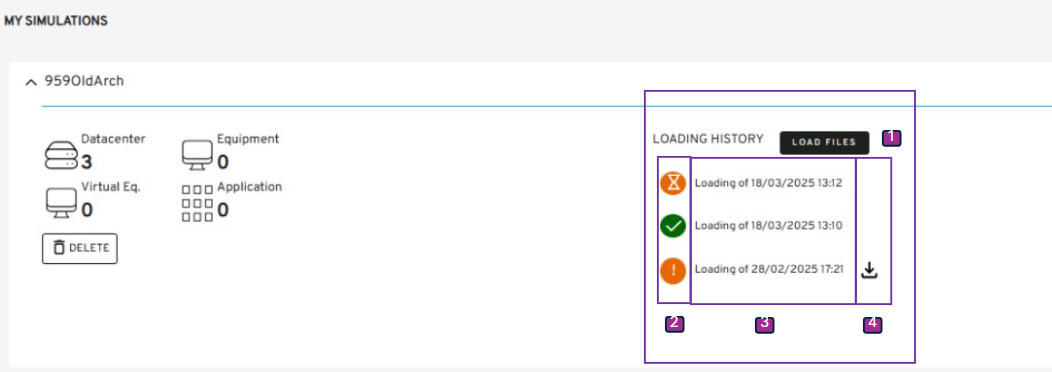
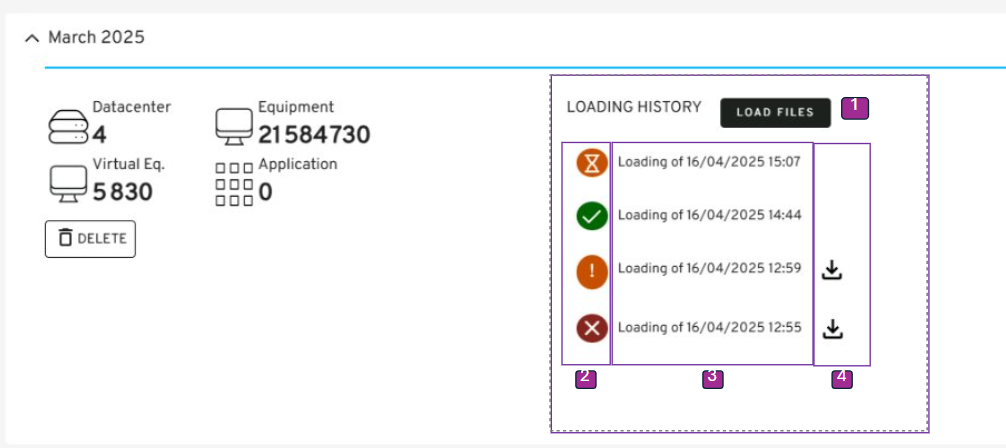
fix(1078): update documentation

diff --git a/services/documentation/content/2-functional-documentation/use_cases/uc_inventory/uc3_load_files.md b/services/documentation/content/2-functional-documentation/use_cases/uc_inventory/uc3_load_files.md
@@ -44,13 +44,14 @@ The connected user must have the write access for that module on the selected or
 {{< mermaid align="center">}}
 
 graph TD;
-Step1[Loading files] --> |Click on 'UPLOAD' button|Step2[Checking Files] --> Decision1{Errors in the headers ?}
-Decision1 --> |Yes|Step3[Display Error: 'Failed headers']
-Decision1 --> |No|Step4[Display Pending:<br> 'To start process'] --> Decision2{Any task in progress ?}
+Step1[Loading files] --> |Click on 'UPLOAD' button|Step2[Checking Files] --> Step4[Display Pending:<br> 'To start process'] --> Decision2{Any task in progress ?}
 Decision2 --> |Yes|Step4
-Decision2 --> |No|Step5[Display Progress:<br> 'In progress'] --> Decision3{Any validation errors ?}
-Decision3 --> |Yes|Step8[Display Warning:<br> 'Completed with errors']
-Decision3 --> |No|Step9[Display Validated:<br>'Completed']
+Decision2 --> |No|Step5[Display Progress:<br> 'In progress'] --> Decision3{Any mandatory header missing?}
+Decision3 --> |Yes|Step6[Display Task as failed with a download button to display error details:<br> 'Failed']
+Decision3 --> |No|Decision4{Any validation errors ?}
+Decision4{Any validation errors ?}
+Decision4 --> |Yes|Step8[Display Warning:<br> 'Completed with errors', with a download button]
+Decision4 --> |No|Step9[Display Validated:<br>'Completed']
 
 {{</ mermaid >}}
 
@@ -64,14 +65,14 @@ Decision3 --> |No|Step9[Display Validated:<br>'Completed']
 
 #### Loading History
 
-| Reference | Group           | Elements          | Sub-Elements | Type   | Description                                                                                                                                                                                                                                                                               |
-| --------- | --------------- | ----------------- | ------------ | ------ | ----------------------------------------------------------------------------------------------------------------------------------------------------------------------------------------------------------------------------------------------------------------------------------------- |
-|           | Loading History |                   |              | button | Access inventory footprint for the application<br><br><li><u>_initialization rules_</u>: Details of the behaviour is described in [1.2. Create or update an inventory (IS version or simulation)](uc2_create_inventory.md).                                                               |
-| 1         |                 | Load files        |              | list   | <li><u>_initialization rules_</u>: The list is ordered by try date desc                                                                                                                                                                                                                   |
-|           |                 | Loading files try |              | label  |                                                                                                                                                                                                                                                                                           |
-| 2         |                 |                   | Status icon  | label  | <li><u>_initialization rules_</u>: 5 existing types: Pending (If any other inventory loading or estimation task is in progress), In Progress (Loading in progress), Error (Loading could not be performed), Completed with errors (Loading is completed with errors) and Completed (Loading is completed).                                                                                                                                                                                          |
-| 3         |                 |                   | Try dates    | label  |                                                                                                                                                                                                                                                                                           |
-| 4         |                 |                   | Download     | button | <li><u>_initialization rules_</u>: The button is displayed in case of "Completed with errors" which means some items could not be loaded on the inventory. That trigger the download of a file containing the items in error. Items can be then corrected in the file and uploaded later. |
+| Reference | Group           | Elements          | Sub-Elements | Type   | Description                                                                                                                                                                                                                                                                                                                                                                                                         |
+| --------- | --------------- | ----------------- | ------------ | ------ | ------------------------------------------------------------------------------------------------------------------------------------------------------------------------------------------------------------------------------------------------------------------------------------------------------------------------------------------------------------------------------------------------------------------- |
+|           | Loading History |                   |              | button | Access inventory footprint for the application<br><br><li><u>_initialization rules_</u>: Details of the behaviour is described in [1.2. Create or update an inventory (IS version or simulation)](uc2_create_inventory.md).                                                                                                                                                                                         |
+| 1         |                 | Load files        |              | list   | <li><u>_initialization rules_</u>: The list is ordered by try date desc                                                                                                                                                                                                                                                                                                                                             |
+|           |                 | Loading files try |              | label  |                                                                                                                                                                                                                                                                                                                                                                                                                     |
+| 2         |                 |                   | Status icon  | label  | <li><u>_initialization rules_</u>: 5 existing types: Pending (If any other inventory loading or estimation task is in progress), In Progress (Loading in progress), FAILED/Error (Loading could not be performed), Completed with errors (Loading is completed with errors) and Completed (Loading is completed).                                                                                                   |
+| 3         |                 |                   | Try dates    | label  |                                                                                                                                                                                                                                                                                                                                                                                                                     |
+| 4         |                 |                   | Download     | button | <li><u>_initialization rules_</u>: The button is displayed in case of "Completed with errors" which means some items could not be loaded on the inventory or in case of a 'Failed' task. Button with 'Completed with errors' trigger the download of a file containing the items in error. Items can be then corrected in the file and uploaded later. <br> Button with a 'Failed' task displays the error details. |
 
 #### Loading control and process
 

diff --git a/services/documentation/content/3-technical-documentation/4-backend_documentation/2-api_documentation/1-loading/api_loading.md b/services/documentation/content/3-technical-documentation/4-backend_documentation/2-api_documentation/1-loading/api_loading.md
@@ -8,7 +8,7 @@ mermaid: true
 ## API PATH
 
 | API                                                                                                    | Swagger                                                                                                       | Use Cases                                                                                                  |
-|:-------------------------------------------------------------------------------------------------------|---------------------------------------------------------------------------------------------------------------|:-----------------------------------------------------------------------------------------------------------|
+| :----------------------------------------------------------------------------------------------------- | ------------------------------------------------------------------------------------------------------------- | :--------------------------------------------------------------------------------------------------------- |
 | POST /subscribers/{subscriber}/organizations/{organization}/inventories/{inventoryId}/load-input-files | [Input/Output](https://saas-g4it.com/api/swagger-ui/index.html#/inventory-loading-files/launchloadInputFiles) | [Load inventory files]({{% ref "/2-functional-documentation/use_cases/uc_inventory/uc3_load_files.md" %}}) |
 
 ## Description
@@ -49,11 +49,12 @@ The asynchronous loading process follows these steps:
 
 flowchart LR
 A[Download files] --> B(Transform files into CSV)
-B --> C[Load files in metadata checking tables, then wait for complete loading]
-C --> D[Check coherence errors]
-D --> E[Bulk parse files]
-E --> F[Handle rejected files]
-F --> G[Update task status]
+B--> C[Check for missing mandatory headers]
+C --> D[Load files in metadata checking tables, then wait for complete loading]
+D --> E[Check coherence errors]
+E --> F[Bulk parse files]
+F --> G[Handle rejected files]
+G --> H[Update task status]
 
 {{</ mermaid >}}
 
@@ -61,6 +62,8 @@ This process is done in
 the [AsyncLoadFilesService class](https://github.com/G4ITTeam/g4it/blob/main/services/backend/src/main/java/com/soprasteria/g4it/backend/apiloadinputfiles/business/asyncloadservice/AsyncLoadFilesService.java).
 
 ### Checking process
+
+Before any checking process starts, a check for missing mandatory headers is done. In case there is any mandatory field mising for any of the uploaded files, the task fails with status 'FAILED' and no further processing is done.
 
 The main purpose of the checking process is to check the global coherence of the files to be loaded between each other
 and
@@ -82,7 +85,7 @@ the [LoadMetadataService class]() using loaders depending on the file type.
 Bellow you will find the entities used to load the metadata of the files to load.
 
 | Package                                                | Entity                 | table                                                                                                                                    |
-|--------------------------------------------------------|------------------------|------------------------------------------------------------------------------------------------------------------------------------------|
+| ------------------------------------------------------ | ---------------------- | ---------------------------------------------------------------------------------------------------------------------------------------- |
 | com.soprasteria.g4it.backend.apiloadinputfiles.modeldb | CheckApplication       | [check_inv_load_application](../../db_documentation/information_system_and_digital_service_input_data/digital_service_input_data)        |
 | com.soprasteria.g4it.backend.apiloadinputfiles.modeldb | CheckDatacenter        | [check_inv_load_datacenter](../../db_documentation/information_system_and_digital_service_input_data/digital_service_input_data)         |
 | com.soprasteria.g4it.backend.apiloadinputfiles.modeldb | CheckPhysicalEquipment | [check_inv_load_physical_equipment](../../db_documentation/information_system_and_digital_service_input_data/digital_service_input_data) |
@@ -134,7 +137,7 @@ as 100). This is present in the package apiinout.modeldb as a class public class
 Bellow you will find the entities used to load the metadata of the files to load.
 
 | Package                                       | Entity              | table                                                                                                                        |
-|-----------------------------------------------|---------------------|------------------------------------------------------------------------------------------------------------------------------|
+| --------------------------------------------- | ------------------- | ---------------------------------------------------------------------------------------------------------------------------- |
 | com.soprasteria.g4it.backend.apiinout.modeldb | InApplication       | [in_application](../../db_documentation/information_system_and_digital_service_input_data/digital_service_input_data)        |
 | com.soprasteria.g4it.backend.apiinout.modeldb | InDatacenter        | [in_datacenter](../../db_documentation/information_system_and_digital_service_input_data/digital_service_input_data)         |
 | com.soprasteria.g4it.backend.apiinout.modeldb | InPhysicalEquipment | [in_physical_equipment](../../db_documentation/information_system_and_digital_service_input_data/digital_service_input_data) |
